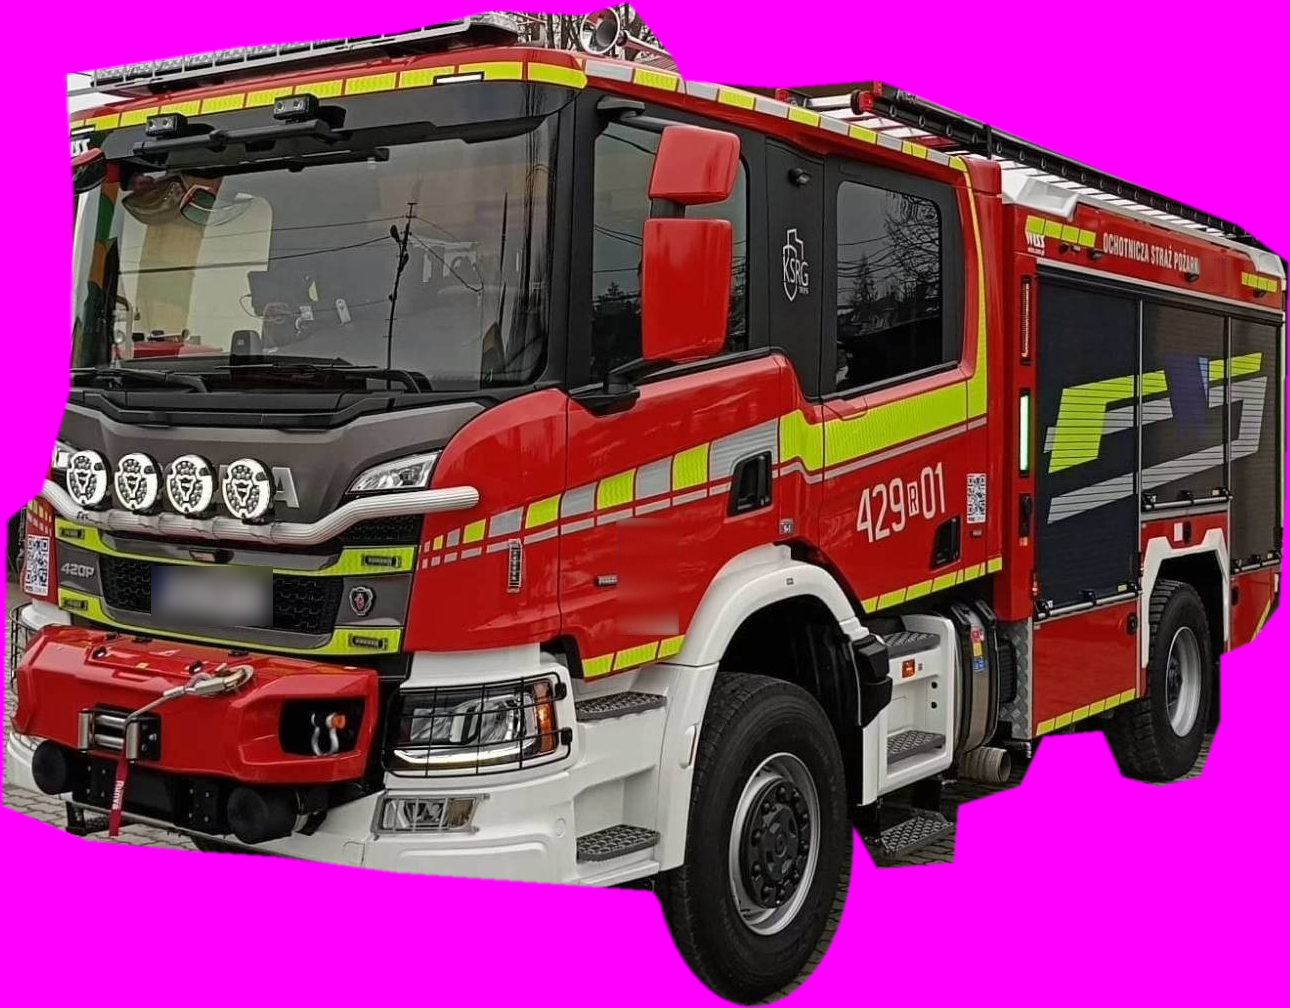
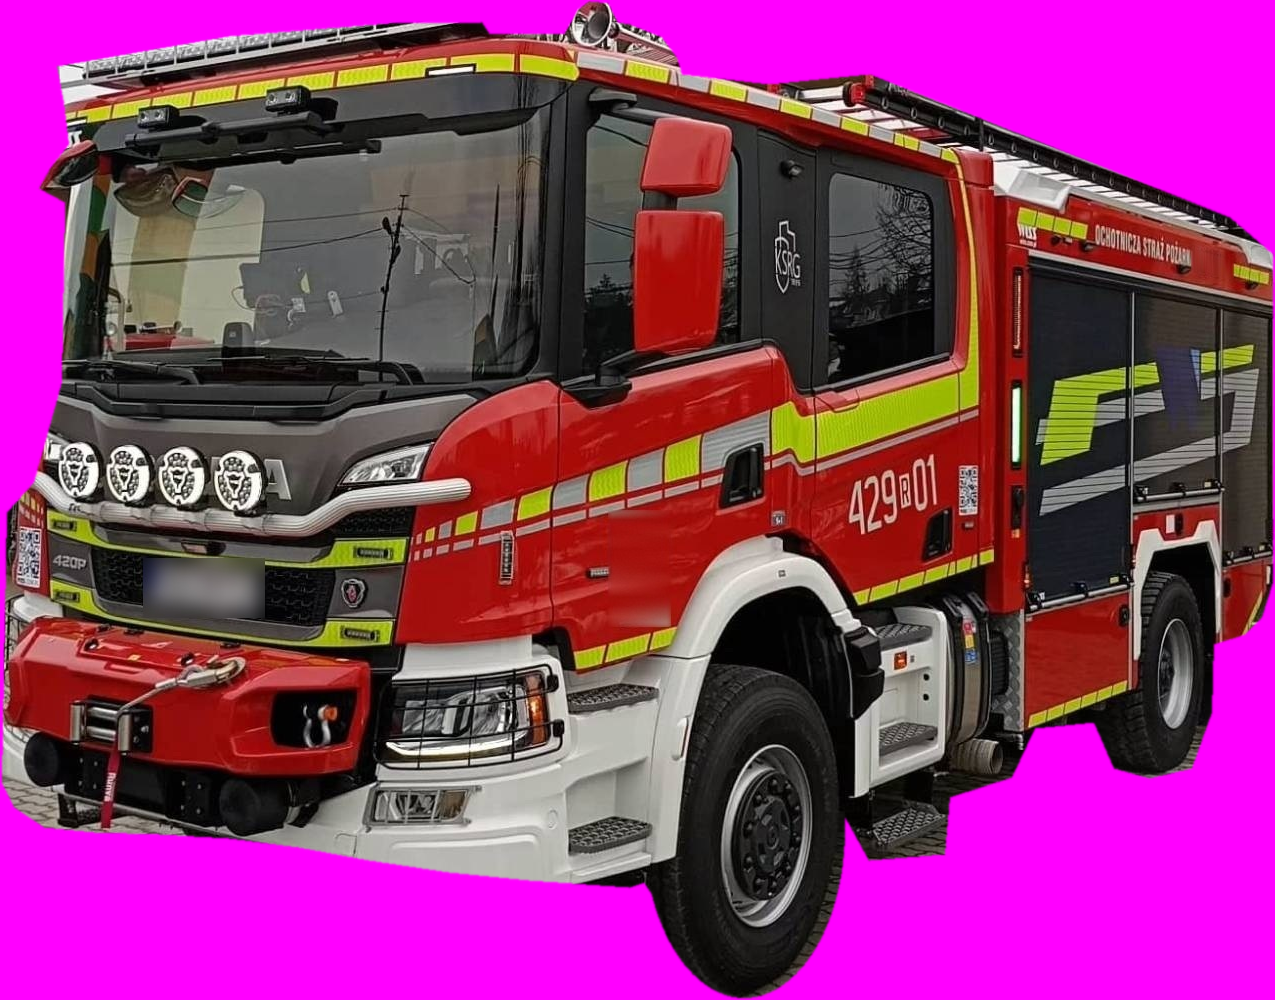
Cleaner front truck cutout; add CC BY fire station photos with attribution
Claude-Session: https://claude.ai/code/session_01A3SugAmiGzk6NGRwCShTKH

diff --git a/video/skrypty/wytnij_przod.py b/video/skrypty/wytnij_przod.py
@@ -1,25 +1,74 @@
 """Wycięcie wozu ze zdjęcia z przodu pod kątem (ręczny obrys we współrzędnych oryginału)."""
 import sys
+import numpy as np
 from PIL import Image, ImageDraw, ImageFilter
 
 OBRYS = [
-    (228, 684), (400, 657), (560, 643), (655, 620), (745, 625), (790, 612), (835, 668), (845, 690), (940, 698), (1040, 690),
-    (1400, 835), (1450, 872), (1447, 1100), (1441, 1215), (1415, 1250), (1382, 1265), (1382, 1330), (1362, 1386),
-    (1320, 1396), (1285, 1386), (1265, 1340), (1205, 1346), (1182, 1395), (1120, 1415), (1115, 1472), (1040, 1478),
-    (1008, 1420), (1005, 1500), (940, 1610), (880, 1600), (815, 1500), (810, 1500), (700, 1492), (560, 1482),
-    (440, 1466), (350, 1460), (250, 1450), (165, 1415), (168, 1232), (170, 1130), (205, 1100), (233, 1000), (236, 800),
+    (228, 684), (400, 654), (560, 641), (652, 640), (660, 652), (735, 652), (742, 640), (748, 628), (760, 619), (778, 621),
+    (788, 640), (800, 642), (832, 655), (847, 675), (852, 692), (940, 702), (1040, 692), (1400, 835), (1443, 872),
+    (1443, 1200), (1432, 1235), (1415, 1252), (1384, 1262), (1382, 1330), (1362, 1386), (1320, 1396), (1285, 1386),
+    (1265, 1340), (1205, 1346), (1182, 1395), (1120, 1415), (1115, 1472), (1040, 1478), (1008, 1420), (1005, 1500),
+    (940, 1610), (880, 1600), (815, 1500), (800, 1505), (700, 1498), (620, 1490), (540, 1478), (470, 1465), (400, 1456),
+    (330, 1452), (265, 1450), (215, 1445), (185, 1425), (173, 1400), (176, 1232), (178, 1130), (205, 1100), (233, 1000),
+    (236, 820), (210, 806), (222, 785), (240, 762), (235, 720),
 ]
 ELIPSY = [((915, 1447), 100, 168)]
 
 
-def wytnij(zrodlo, wyjscie, tlo=None):
+def _kmeans(px, k=8, it=8, seed=1):
+    rng = np.random.default_rng(seed)
+    c = px[rng.choice(len(px), k, replace=False)].astype(float)
+    for _ in range(it):
+        d = ((px[:, None, :] - c[None]) ** 2).sum(-1)
+        l = d.argmin(1)
+        for j in range(k):
+            if (l == j).any():
+                c[j] = px[l == j].mean(0)
+    return c
+
+
+def doprecyzuj(im, m0, promien=16):
+    """Doprecyzowanie krawędzi: w pasie wokół obrysu piksel dostaje etykietę wozu lub tła
+    według podobieństwa koloru do wnętrza wozu (k-średnich) i do tła z zewnątrz."""
+    a = np.array(im).astype(float)
+    k = 2 * promien + 1
+    wew = m0.filter(ImageFilter.MinFilter(k))
+    zew = m0.filter(ImageFilter.MaxFilter(k))
+    fg_core = np.array(wew) > 128
+    bg_core = np.array(zew) < 128
+    rng = np.random.default_rng(2)
+    fy, fx = np.where(fg_core)
+    by, bx = np.where(bg_core)
+    fi = rng.choice(len(fy), 8000, replace=False)
+    bi = rng.choice(len(by), 8000, replace=False)
+    cf = _kmeans(a[fy[fi], fx[fi]], 10)
+    cb = _kmeans(a[by[bi], bx[bi]], 10)
+    pas = (~fg_core) & (~bg_core)
+    py, px_ = np.where(pas)
+    P = a[py, px_]
+    df = ((P[:, None, :] - cf[None]) ** 2).sum(-1).min(1)
+    db = ((P[:, None, :] - cb[None]) ** 2).sum(-1).min(1)
+    # w pasie preferuj stronę obrysu: piksele wewnątrz obrysu są „tańsze" jako wóz
+    wewnatrz = np.array(m0)[py, px_] > 128
+    bonus = np.where(wewnatrz, 0.75, 1.35)
+    etykieta = df * bonus < db
+    wynik = fg_core.copy()
+    wynik[py, px_] = etykieta
+    mm = Image.fromarray((wynik * 255).astype("uint8"))
+    mm = mm.filter(ImageFilter.MedianFilter(7)).filter(ImageFilter.MinFilter(3)).filter(ImageFilter.MaxFilter(3))
+    return mm
+
+
+def wytnij(zrodlo, wyjscie, tlo=None, precyzuj=False):
     im = Image.open(zrodlo).convert("RGB")
     m = Image.new("L", im.size, 0)
     d = ImageDraw.Draw(m)
     d.polygon(OBRYS, fill=255)
     for (cx, cy), rx, ry in ELIPSY:
         d.ellipse((cx - rx, cy - ry, cx + rx, cy + ry), fill=255)
-    m = m.filter(ImageFilter.GaussianBlur(1.2))
+    if precyzuj:
+        m = doprecyzuj(im, m)
+    m = m.filter(ImageFilter.GaussianBlur(1.0))
     rgba = im.copy()
     rgba.putalpha(m)
     box = m.point(lambda v: 255 if v > 8 else 0).getbbox()

diff --git a/video/marka/ZRODLA-ZDJEC.md b/video/marka/ZRODLA-ZDJEC.md
@@ -1,0 +1,11 @@
+# Źródła zdjęć z wolnymi licencjami (wymagają podania autora)
+
+Zdjęcia znalezione przez Openverse / Wikimedia Commons. Licencja CC BY: wolno użyć, także komercyjnie, **pod warunkiem podania autora, licencji i źródła** (np. w opisie rolki). Wersję licencji (3.0 / 4.0) sprawdź na stronie źródła przed publikacją.
+
+| Plik | Tytuł | Autor | Licencja | Źródło |
+|---|---|---|---|---|
+| public/foto/remizy/konie-front.jpg | Ochotnicza Straż Pożarna w Koniach – remiza (1) | Patryk Zagawa | CC BY | https://commons.wikimedia.org/w/index.php?curid=172891269 |
+| public/foto/remizy/konie-garaze.jpg | Ochotnicza Straż Pożarna w Koniach – remiza | Patryk Zagawa | CC BY | https://commons.wikimedia.org/w/index.php?curid=172891270 |
+| public/foto/remizy/kruszewo.jpg | Ochotnicza Straż Pożarna w Kruszewie – remiza | Patryk Zagawa | CC BY | https://commons.wikimedia.org/w/index.php?curid=173747109 |
+
+Wzór podpisu w opisie: „Zdjęcie remizy: Patryk Zagawa, CC BY (Wikimedia Commons)”.
